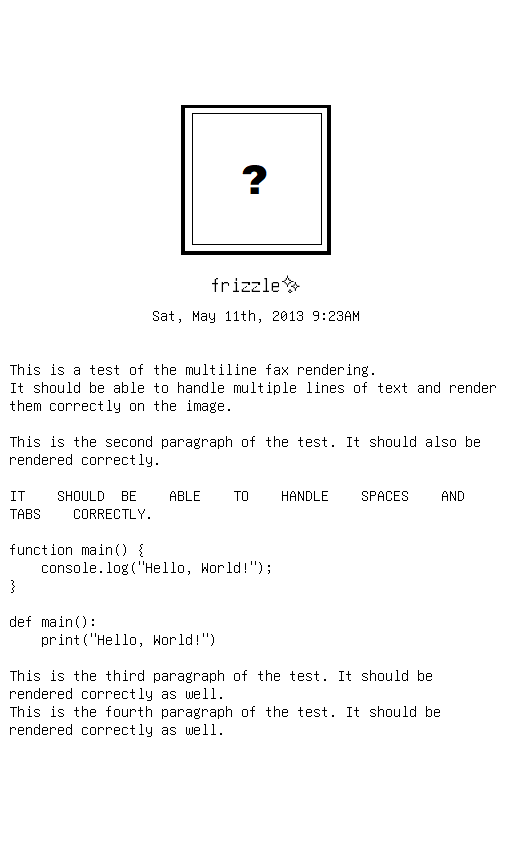
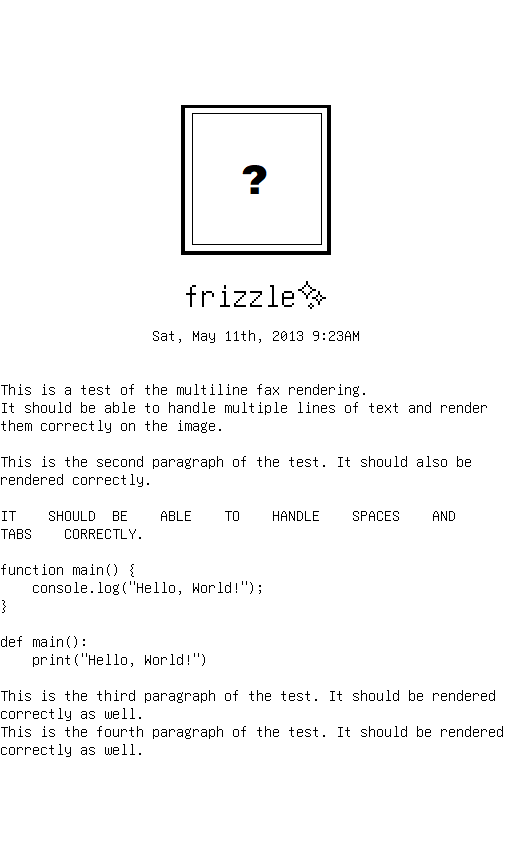
wee

diff --git a/fax_frizzle/faxes.py b/fax_frizzle/faxes.py
@@ -1,6 +1,8 @@
 import asyncio
+import os
 from datetime import datetime
 from io import BytesIO
+from pathlib import Path
 from typing import List, Optional, Union
 
 import requests
@@ -10,8 +12,12 @@ from escpos.escpos import Escpos
 from PIL import Image, ImageOps
 
 from fax_frizzle.fax import Fax
+from fax_frizzle.render.engine import render_fax, sent_to_printer_badge
 
 lock = asyncio.Lock()
+
+# Get the directory where the current file is located
+current_dir = Path(os.path.dirname(os.path.abspath(__file__)))
 
 
 @cached(cache=TTLCache(maxsize=10, ttl=60 * 60 * 24))
@@ -42,12 +48,12 @@ async def send_fax(printer: Escpos,
                    user: Union[User, Member],
                    text: str,
                    ts: datetime,
-                   attachments: Optional[List[Attachment]] = None) -> None:
+                   attachments: Optional[List[Attachment]] = None) -> Image.Image:
     if user.avatar:
         avatar = download_avatar(user.avatar.url)
         avatar = avatar.resize((150, 150))
     else:
-        avatar = Image.open("img/question.png")
+        avatar = Image.open(current_dir / "img/question.png")
 
     image_attachments = []
     if attachments:
@@ -55,26 +61,31 @@ async def send_fax(printer: Escpos,
             if attachment.content_type == 'image/png' or \
                     attachment.content_type == 'image/jpeg':
                 image_attachments.append(download_attachment_image(attachment.url))
+
     fax = Fax(user_name=user.name, user_avatar=avatar, text=text, ts=ts, image_attachments=image_attachments)
+    rendered_fax = render_fax(fax=fax, width=printer.profile.profile_data["media"]["width"]["pixels"])
 
     async with lock:
         try:
             printer.open()
-            printer.textln()
-            if user.avatar:
-                printer.image(fax.user_avatar, center=True)
-                printer.textln()
-            printer.set(bold=True, font='b', align='center')
-            printer.textln(fax.user_name)
-            printer.set(bold=False)
-            printer.textln(fax.human_ts)
-            printer.set(bold=False, font='a', align='left')
-            printer.textln()
-            printer.textln(fax.text)
-            printer.textln()
-            for img in fax.image_attachments:
-                printer.image(img, center=True)
-                printer.textln()
+            printer.image(rendered_fax)
             printer.cut()
         finally:
             printer.close()
+
+    return rendered_fax
+
+
+def convert_fax_to_preview(fax_img: Image.Image, ts: datetime) -> Image.Image:
+    im = fax_img.copy()
+    # Pure black and white
+    im = im.convert("1")
+    # sticker = Image.open(current_dir / "img/print-preview.png")
+    # sticker.thumbnail((fax_img.width, fax_img.height))
+    preview_img = Image.new("RGB", (fax_img.width + 16, fax_img.height), (255, 255, 255))
+    preview_img.paste(im, (8, 0))
+    # preview_img.paste(sticker, ((preview_img.width // 2) - (sticker.width // 2), (preview_img.height // 2) - (sticker.height // 2)), sticker)
+    stp = sent_to_printer_badge(ts)
+    preview_img.paste(stp, (preview_img.width - stp.width - 8, 8))
+
+    return preview_img

diff --git a/fax_frizzle/render/engine.py b/fax_frizzle/render/engine.py
@@ -2,15 +2,20 @@
 Image rendering engine for the fax service.
 """
 import math
+import sys
+from datetime import datetime
 from typing import List
 
+import arrow
 from PIL import Image, ImageDraw, ImageFont
 
 from fax_frizzle.fax import Fax
 from fax_frizzle.render.wordwrap import wordwrap
 
-font_body = ImageFont.truetype('unifontex.ttf', 16)
-font_title = ImageFont.truetype('unifontex.ttf', 20)
+_fsize = 16
+font_meta = ImageFont.truetype('unifontex.ttf', _fsize // 2)
+font_body = ImageFont.truetype('unifontex.ttf', _fsize)
+font_title = ImageFont.truetype('unifontex.ttf', _fsize * 2)
 
 gr = 1.618  # Golden ratio
 
@@ -45,9 +50,8 @@ def centered_text_tile(width: int, text: str, font: ImageFont.FreeTypeFont, **kw
 
 
 def body_text_tile(width: int, text: str, font: ImageFont.FreeTypeFont, **kwargs) -> Image.Image:
-    gutter = int(width // gr // (2 * 16))
-    padding = gutter
-    text = wordwrap(font, width - (gutter * 2), text)
+    padding = int(width // gr // (2 * 16))
+    text = wordwrap(font, width, text)
     defaults: dict = dict()
     # Merge defaults with any kwargs provided
     final_kwargs = {**defaults, **kwargs}
@@ -59,7 +63,7 @@ def body_text_tile(width: int, text: str, font: ImageFont.FreeTypeFont, **kwargs
     draw = ImageDraw.Draw(img)
     final_kwargs['fill'] = (0, 0, 0)
     draw.text(
-        (gutter, padding),
+        (0, padding),
         text,
         font=font,
         **final_kwargs
@@ -83,8 +87,20 @@ def render_fax(fax: Fax, width: int) -> Image.Image:
         centered_text_tile(width, fax.human_ts, font_body),
         int(v_padding // 4),
         body,
-        v_padding,
     ]
+
+    for img in fax.image_attachments:
+        tiles.append(int(v_padding // 4))
+        img_copy = img.copy()
+        if img_copy.size[0] > width:
+            img_copy.thumbnail((width, sys.maxsize))
+        img_attachement_tile = Image.new('RGB', (width, img_copy.height), color=(255, 255, 255))
+        img_attachement_tile.paste(img_copy, ((width // 2) - (img_copy.width // 2), 0), mask=img_copy if img_copy.mode == 'RGBA' else None)
+
+        tiles.append(img_attachement_tile)
+
+    tiles.append(v_padding)
+
     final_height = sum(tile.height if isinstance(tile, Image.Image) else tile for tile in tiles)
     img = Image.new('RGB', (width, final_height), color=(255, 255, 255))
     scroll = 0
@@ -94,5 +110,18 @@ def render_fax(fax: Fax, width: int) -> Image.Image:
             scroll += tile.height
             continue
         scroll += tile
+
+    return img
+
+
+def sent_to_printer_badge(ts: datetime) -> Image.Image:
+    w = 275
+    stp_tile = centered_text_tile(w, "Sent to printer", font_body)
+    ts_tile = centered_text_tile(w, arrow.get(ts).format(arrow.FORMAT_RSS), font_body)
+    img = Image.new('RGB', (w, stp_tile.height + ts_tile.height + 8), color=(255, 255, 255))
+    img.paste(stp_tile, (0, 0))
+    img.paste(ts_tile, (0, stp_tile.height))
+    draw = ImageDraw.Draw(img)
+    draw.rectangle((0, 0, w - 1, img.height - 1), outline=(0, 0, 0), width=1)
 
     return img

diff --git a/fax_frizzle/render/engine_test.py b/fax_frizzle/render/engine_test.py
@@ -6,6 +6,7 @@ import arrow
 from PIL import Image
 
 from fax_frizzle.fax import Fax
+from fax_frizzle.faxes import convert_fax_to_preview
 from fax_frizzle.render.engine import render_fax
 
 # Get the directory where the current file is located
@@ -19,7 +20,29 @@ def test_render_simple_fax(image_regression):
                              user_avatar=Image.open(current_dir / "../img/question.png"),
                              text="Hello World 😊 👀 😂 🌚 日本語",
                              ts=arrow.get('2013-05-11T21:23:58.970460+07:00').datetime,
-                             image_attachments=[]))
+                             image_attachments=[
+                                 Image.open(current_dir / "../img/printed_lg.png"),
+                                 Image.open(current_dir / "../img/printed.png"),
+                                 Image.open(current_dir / "engine_test/IMG_6532.jpg"),
+                             ]))
+    stream = BytesIO()
+    img.save(stream, "PNG")
+    image_regression.check(stream.getvalue())
+
+
+def test_render_simple_fax_preview(image_regression):
+    # Create the image
+    img = render_fax(width=512,
+                     fax=Fax(user_name="Test User",
+                             user_avatar=Image.open(current_dir / "../img/question.png"),
+                             text="Hello World 😊 👀 😂 🌚 日本語",
+                             ts=arrow.get('2013-05-11T21:23:58.970460+07:00').datetime,
+                             image_attachments=[
+                                 Image.open(current_dir / "../img/printed_lg.png"),
+                                 Image.open(current_dir / "../img/printed.png"),
+                                 Image.open(current_dir / "engine_test/IMG_6532.jpg"),
+                             ]))
+    img = convert_fax_to_preview(img, arrow.get('2013-05-11T21:23:58.970460+07:00').datetime)
     stream = BytesIO()
     img.save(stream, "PNG")
     image_regression.check(stream.getvalue())

diff --git a/fax_frizzle/__init__.py b/fax_frizzle/__init__.py
@@ -1,9 +1,11 @@
 from datetime import datetime
+from io import BytesIO
 
+import arrow
 import discord
 from escpos.escpos import Escpos
 
-from fax_frizzle.faxes import send_fax
+from fax_frizzle.faxes import convert_fax_to_preview, send_fax
 from fax_frizzle.util import is_owner
 
 
@@ -43,14 +45,20 @@ def make_bot(printer: Escpos) -> discord.Client:
 
         try:
             await message.add_reaction('🖨')
-            await send_fax(printer,
-                           user=message.author,
-                           ts=message.created_at,
-                           text=message.content,
-                           attachments=message.attachments)
+            fax_img = await send_fax(printer,
+                                     user=message.author,
+                                     ts=message.created_at,
+                                     text=message.content,
+                                     attachments=message.attachments)
             timestamp = datetime.now().strftime("%Y-%m-%d %H:%M:%S")
             print(f"[{timestamp}] Received fax DM from {message.author.name}")
             await message.add_reaction('✅')
+            with BytesIO() as fax_stream:
+                fax_img = convert_fax_to_preview(fax_img, ts=arrow.now().datetime)
+                fax_img.save(fax_stream, "PNG")
+                fax_stream.seek(0)
+                discord_img = discord.File(fp=fax_stream, filename="fax.png")
+                await message.channel.send(file=discord_img)
         except Exception as e:
             await message.add_reaction('❌')
             raise e

diff --git a/fax_frizzle/fax.py b/fax_frizzle/fax.py
@@ -1,14 +1,14 @@
+import re
 from dataclasses import dataclass
 from datetime import datetime
-import re
-from typing import List, Optional, Union
+from typing import List
 
-from PIL import Image
 import arrow
-from discord import Attachment, Member, User
+from PIL import Image
 
 # ASCII only
 _printable_pattern = re.compile(r'[^\x00-\x7F]+', flags=re.UNICODE)
+
 
 @dataclass
 class Fax:
@@ -36,4 +36,3 @@ class Fax:
         Return the text with non-ASCII characters replaced with underscores.
         """
         return _printable_pattern.sub('_', self.text)
-    
